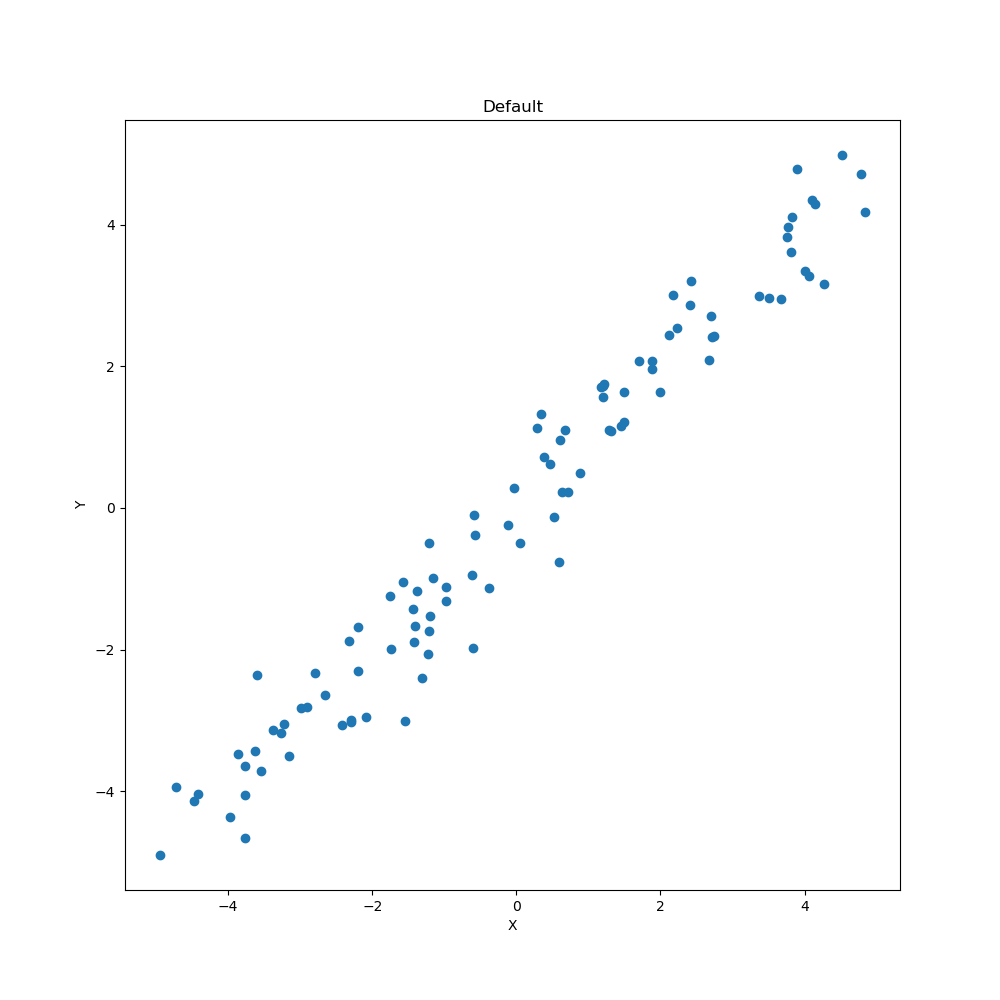
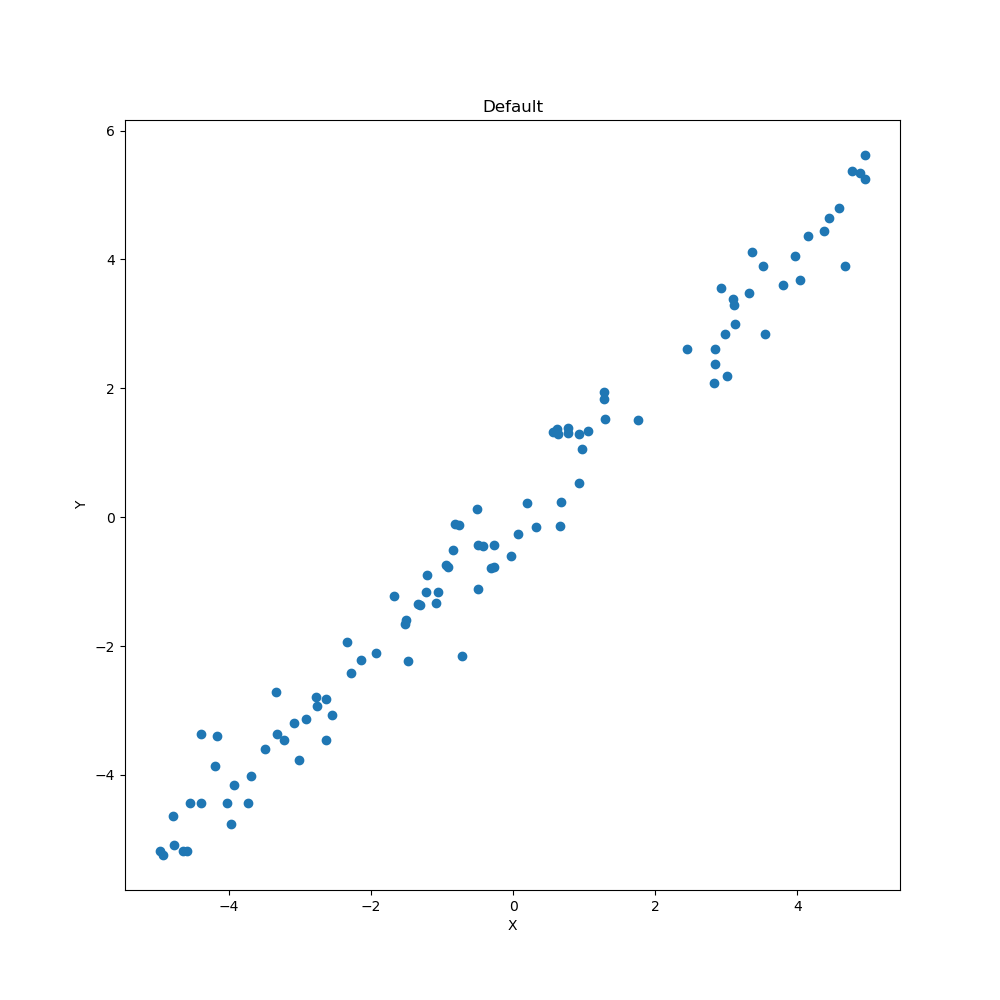
fix scatter sizes (squared)

diff --git a/plottify/plottify.py b/plottify/plottify.py
@@ -17,11 +17,12 @@ def autosize(fig=None, figsize=None):
 
         ## Set size of figure
         fig.set_size_inches(figsize)
+    print(figsize)
 
     ## Make font sizes proportional to figure size
     fontsize_labels = figsize[0] * 5
     fontsize_ticks = fontsize_labels / 2
-    scatter_size = figsize[0] * 13
+    scatter_size = (figsize[0] * 1.5) ** 2
     linewidth = figsize[0]
     axes = fig.get_axes()
     for ax in axes:
@@ -50,3 +51,29 @@ def autosize(fig=None, figsize=None):
 
     ## Set tight layout
     plt.tight_layout()
+
+if __name__ == "__main__":
+    import numpy as np
+    from plottify import autosize
+    import matplotlib.pyplot as plt
+
+    n = 100
+    x = np.random.uniform(low=-5, high=5, size=n)
+    y = x + np.random.normal(scale=0.5, size=n)
+
+    for size in [3, 10, 20]:
+
+        plt.figure(figsize=(size, size))
+        plt.scatter(x, y)
+        plt.xlabel("X")
+        plt.ylabel("Y")
+        plt.title("Default")
+        plt.show()
+
+        plt.figure(figsize=(size, size))
+        plt.scatter(x, y)
+        plt.xlabel("X")
+        plt.ylabel("Y")
+        plt.title("Autosized")
+        autosize()
+        plt.show()
